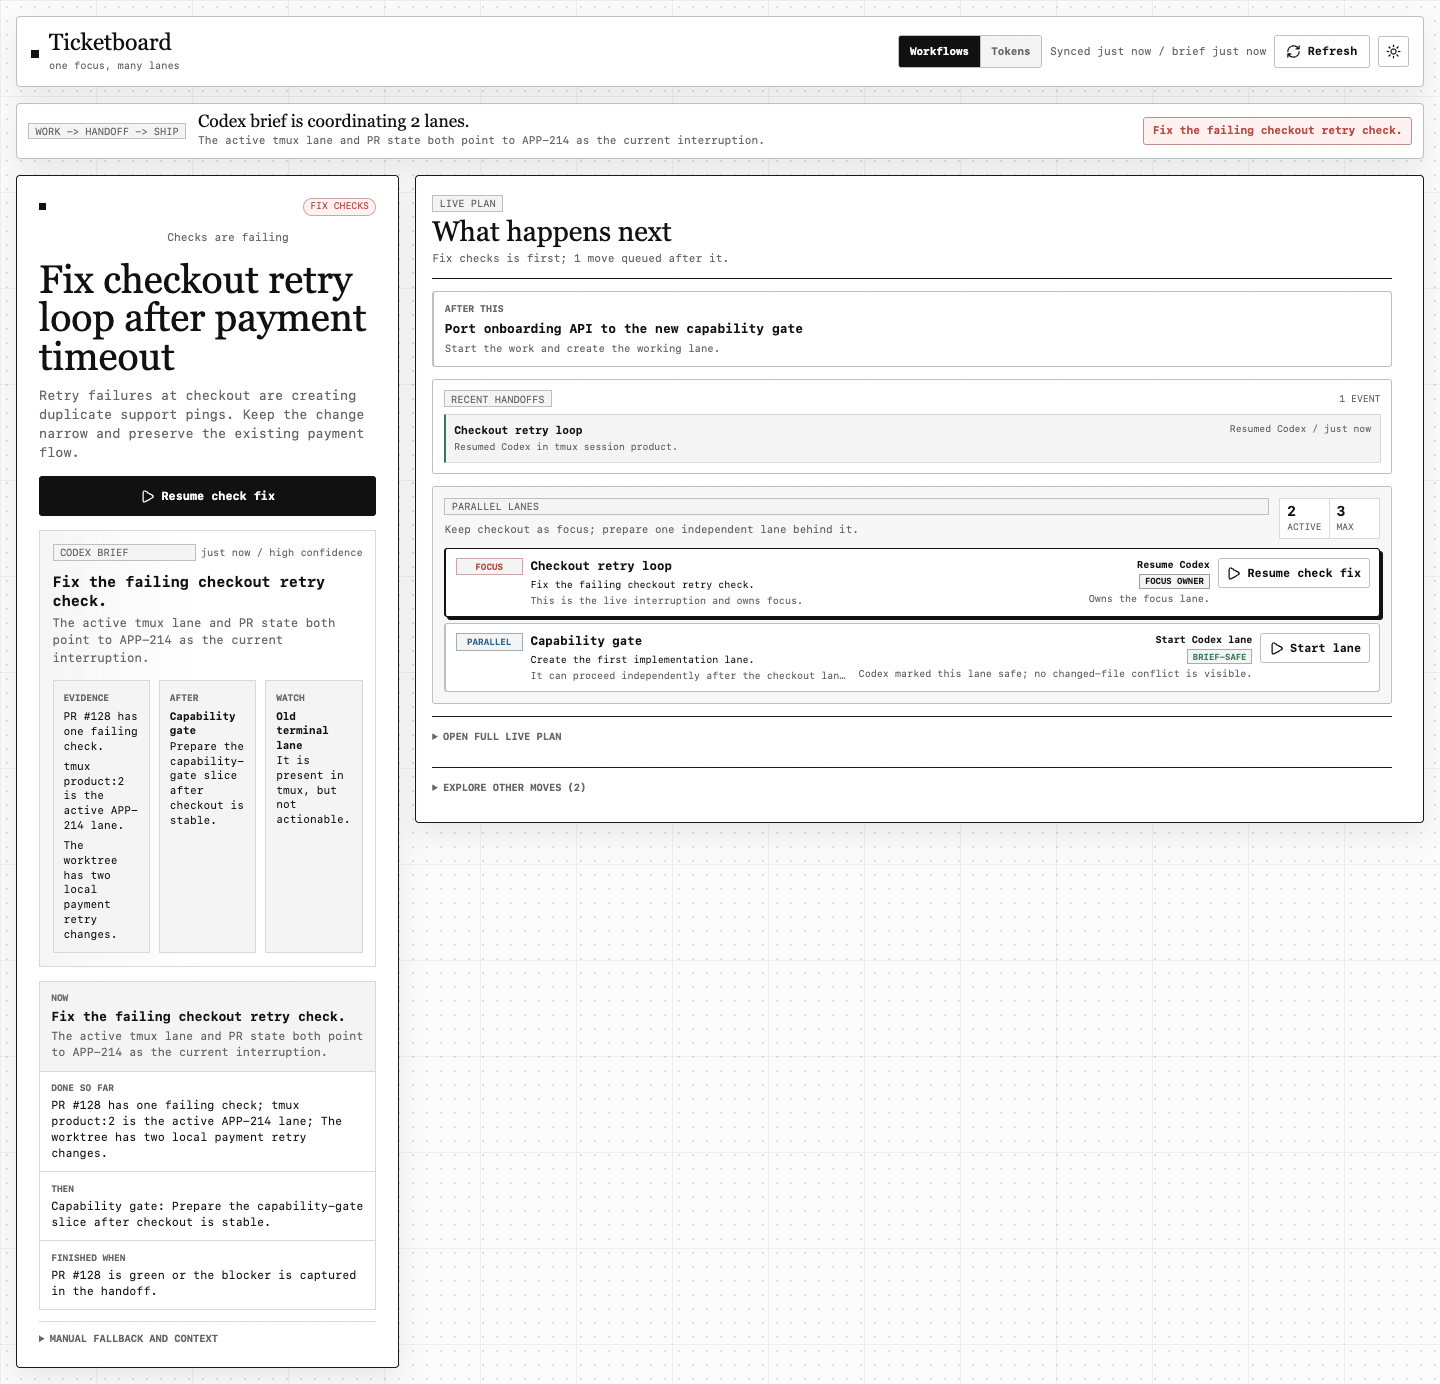
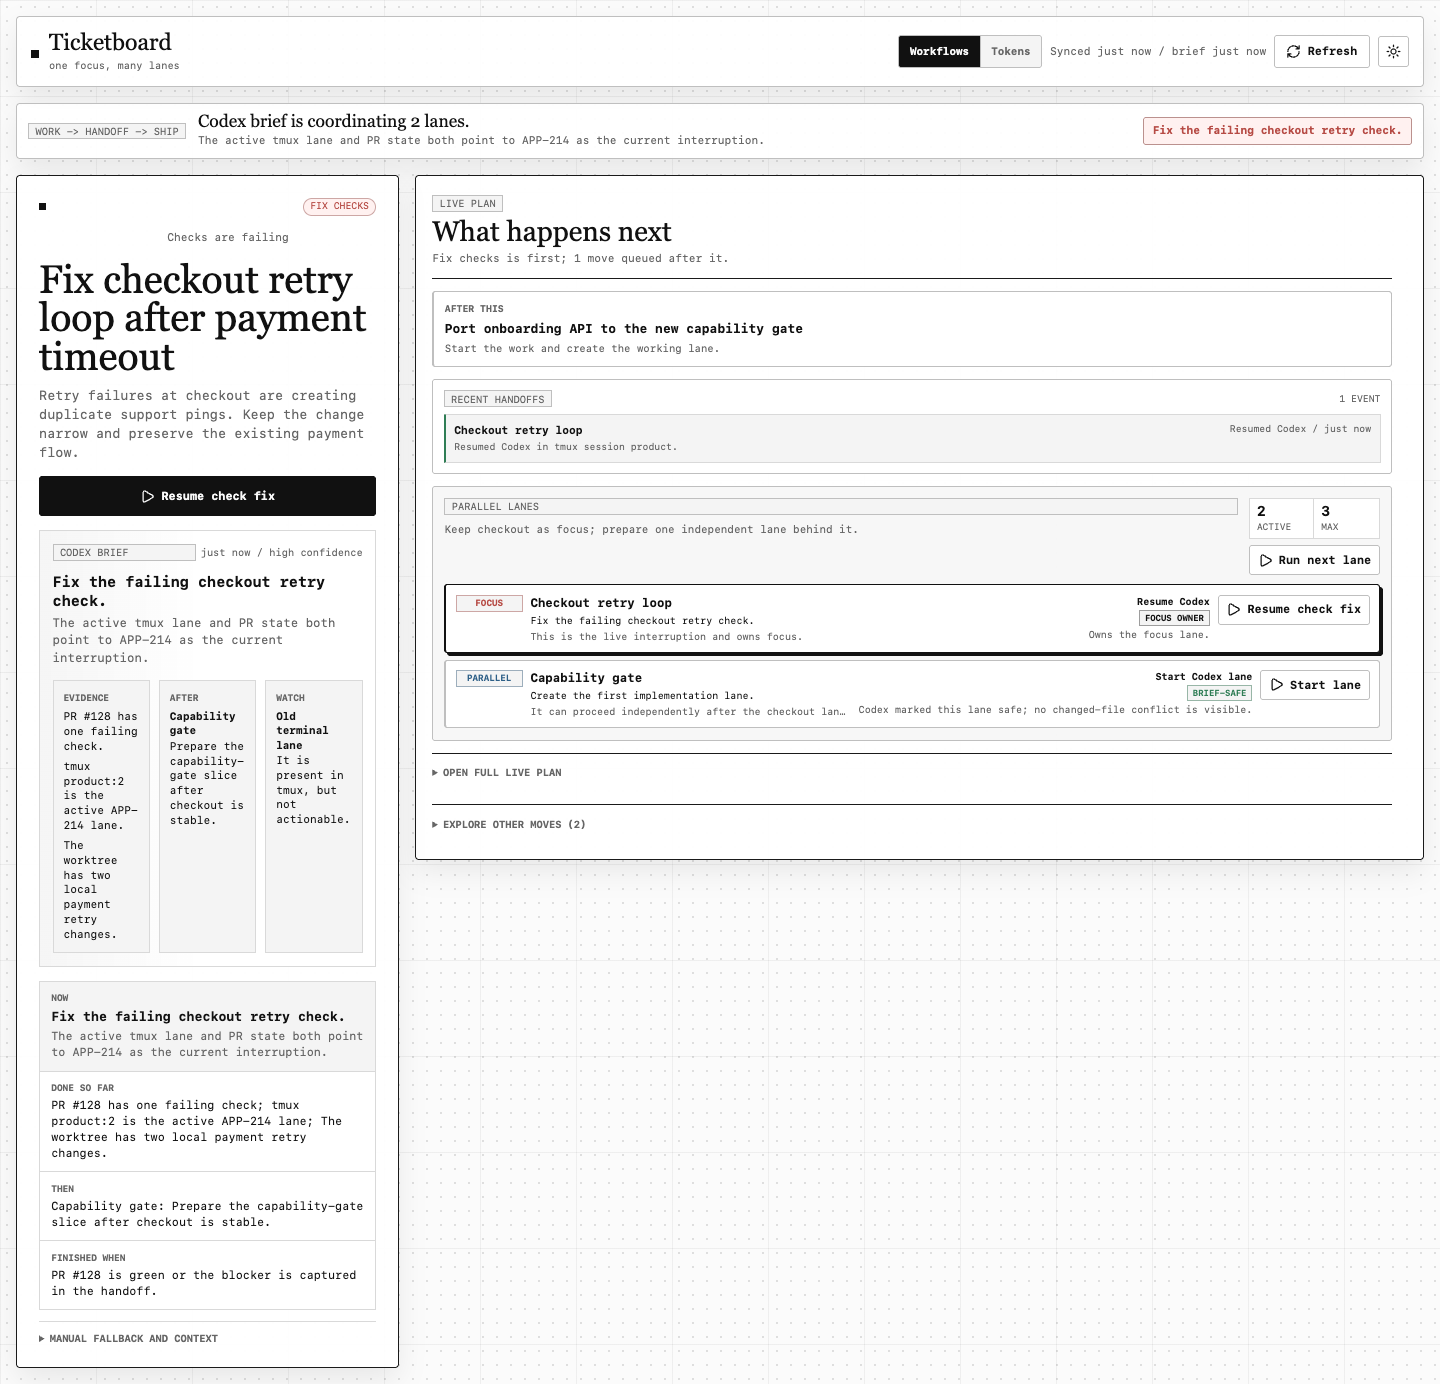
Add next safe lane action

Changed region(s): [[0.3125, 0.3728, 0.9688, 0.6214]]

diff --git a/src/App.tsx b/src/App.tsx
@@ -101,6 +101,19 @@ type PlannedWorkflowAction = {
   runningLabel: string;
 };
 
+type LaneActionGuard = {
+  label: string;
+  reason: string;
+  runnable: boolean;
+};
+
+type RunnableLaneAction = {
+  action: PlannedWorkflowAction;
+  guard: LaneActionGuard;
+  lane: ParallelLane;
+  workflow: WorkflowItem;
+};
+
 type WorkflowHandoff = {
   done: string;
   finish: string;
@@ -1327,6 +1340,11 @@ function ParallelLanesPanel({
   workflows: Array<WorkflowItem>;
 }) {
   if (!plan.lanes.length) return null;
+  const nextLaneAction = nextSafeLaneAction({
+    dashboard,
+    lanes: plan.lanes,
+    workflows,
+  });
 
   return (
     <section className="parallel-lanes" data-parallel-lanes={plan.source}>
@@ -1342,6 +1360,24 @@ function ParallelLanesPanel({
             <strong>{plan.maxActive}</strong>
             max
           </span>
+        </div>
+        <div className="parallel-next-action">
+          {nextLaneAction ? (
+            <WorkflowActionButton
+              action={{
+                ...nextLaneAction.action,
+                label: 'Run next lane',
+              }}
+              className="ghost-button action-button lane-action-button"
+              onActionComplete={(shouldAdvance) => {
+                onActionComplete(nextLaneAction.workflow, shouldAdvance);
+              }}
+              testId="run-next-safe-lane"
+              title={`Run next safe lane: ${nextLaneAction.guard.reason}`}
+            />
+          ) : (
+            <span>No safe Codex lane</span>
+          )}
         </div>
       </div>
 
@@ -1380,10 +1416,7 @@ function ParallelLaneRow({
   const workflow = lane.workflowId
     ? workflows.find((candidate) => candidate.id === lane.workflowId) ?? null
     : null;
-  const action = workflow
-    ? buildWorkflowAction(workflow, dashboard, buildLaneCodexPrompt(lane, workflow))
-    : null;
-  const actionGuard = action ? laneActionGuard(lane, action) : null;
+  const laneAction = laneActionFor({ dashboard, lane, workflow });
   const content = (
     <>
       <span className={`parallel-role parallel-role-${lane.role}`}>
@@ -1421,26 +1454,26 @@ function ParallelLaneRow({
           {content}
         </button>
         <div className="parallel-lane-action">
-          {action && workflow && actionGuard?.runnable ? (
+          {laneAction?.guard.runnable ? (
             <WorkflowActionButton
-              action={action}
+              action={laneAction.action}
               className="ghost-button action-button lane-action-button"
               onActionComplete={(shouldAdvance) => {
-                onActionComplete(workflow, shouldAdvance);
+                onActionComplete(laneAction.workflow, shouldAdvance);
               }}
               testId={`run-lane-action-${lane.role}`}
               title={`Run ${laneRoleLabel(lane.role).toLowerCase()} lane action`}
             />
-          ) : action && actionGuard ? (
+          ) : laneAction ? (
             <button
               className="ghost-button lane-action-button lane-action-guard"
               data-lane-action-guard={lane.safety.level}
               onClick={() => onSelect(lane.workflowId as string)}
-              title={actionGuard.reason}
+              title={laneAction.guard.reason}
               type="button"
             >
               <AlertTriangle aria-hidden="true" size={14} />
-              {actionGuard.label}
+              {laneAction.guard.label}
             </button>
           ) : (
             <span>No local action</span>
@@ -2230,13 +2263,62 @@ function laneRoleLabel(role: ParallelLaneRole) {
   return labels[role];
 }
 
+function laneActionFor({
+  dashboard,
+  lane,
+  workflow,
+}: {
+  dashboard: DashboardData;
+  lane: ParallelLane;
+  workflow: WorkflowItem | null;
+}): RunnableLaneAction | null {
+  if (!workflow) return null;
+  const action = buildWorkflowAction(
+    workflow,
+    dashboard,
+    buildLaneCodexPrompt(lane, workflow),
+  );
+  if (!action) return null;
+  return {
+    action,
+    guard: laneActionGuard(lane, action),
+    lane,
+    workflow,
+  };
+}
+
+function nextSafeLaneAction({
+  dashboard,
+  lanes,
+  workflows,
+}: {
+  dashboard: DashboardData;
+  lanes: Array<ParallelLane>;
+  workflows: Array<WorkflowItem>;
+}): RunnableLaneAction | null {
+  for (const lane of lanes) {
+    if (lane.role !== 'parallel' && lane.role !== 'cleanup') continue;
+    if (lane.safety.level !== 'safe') continue;
+    const workflow = lane.workflowId
+      ? workflows.find((candidate) => candidate.id === lane.workflowId) ?? null
+      : null;
+    const laneAction = laneActionFor({ dashboard, lane, workflow });
+    if (
+      laneAction?.guard.runnable &&
+      automatedActionKind(laneAction.action.request.kind)
+    ) {
+      return laneAction;
+    }
+  }
+  return null;
+}
+
+function automatedActionKind(kind: WorkflowActionRequest['kind']) {
+  return kind === 'launch-codex' || kind === 'resume-codex' || kind === 'start-lane';
+}
+
 function laneActionGuard(lane: ParallelLane, action: PlannedWorkflowAction) {
-  const automatedKinds = new Set<WorkflowActionRequest['kind']>([
-    'launch-codex',
-    'resume-codex',
-    'start-lane',
-  ]);
-  if (!automatedKinds.has(action.request.kind)) {
+  if (!automatedActionKind(action.request.kind)) {
     return { label: action.label, reason: 'Human checkpoint action.', runnable: true };
   }
   if (lane.role === 'focus' || lane.safety.level === 'focus' || lane.safety.level === 'safe') {

diff --git a/src/styles.css b/src/styles.css
@@ -1114,6 +1114,32 @@ button.plan-digest-item {
   line-height: 1;
 }
 
+.parallel-next-action {
+  display: grid;
+  min-width: 8.2rem;
+  grid-column: 2;
+  gap: 0.35rem;
+}
+
+.parallel-next-action > span {
+  align-self: center;
+  color: var(--muted);
+  font-size: 0.68rem;
+  text-align: right;
+}
+
+.parallel-next-action .lane-action-button {
+  width: 100%;
+}
+
+.parallel-next-action .action-result {
+  display: grid;
+  min-height: 0;
+  padding: 0.45rem 0.5rem;
+  gap: 0.18rem;
+  font-size: 0.68rem;
+}
+
 .parallel-lane-list {
   display: grid;
   gap: 0.45rem;
@@ -1929,6 +1955,16 @@ button.plan-item {
   .parallel-capacity {
     grid-row: auto;
     width: 100%;
+  }
+
+  .parallel-next-action {
+    grid-column: 1;
+    min-width: 0;
+    width: 100%;
+  }
+
+  .parallel-next-action > span {
+    text-align: left;
   }
 
   .parallel-lane-meta {

diff --git a/README.md b/README.md
@@ -13,6 +13,7 @@ It is designed to answer one question quickly: **what should own focus, what can
 - Picks one current workflow from live local and remote signals.
 - Builds a lane plan for focus work, parallel Codex candidates, waiting checkpoints, and cleanup.
 - Guards Codex lane actions when focus safety is unknown or files overlap.
+- Offers a next-safe-lane action when one parallel Codex handoff is ready.
 - Explains the selected move with evidence, latest signal, terminal context, and finish criteria.
 - Can focus an existing tmux lane, create a worktree, resume Codex, open a PR, or launch a new Codex lane.
 - Shows a generated project plan: done, current, next, cleanup, and stale signals.